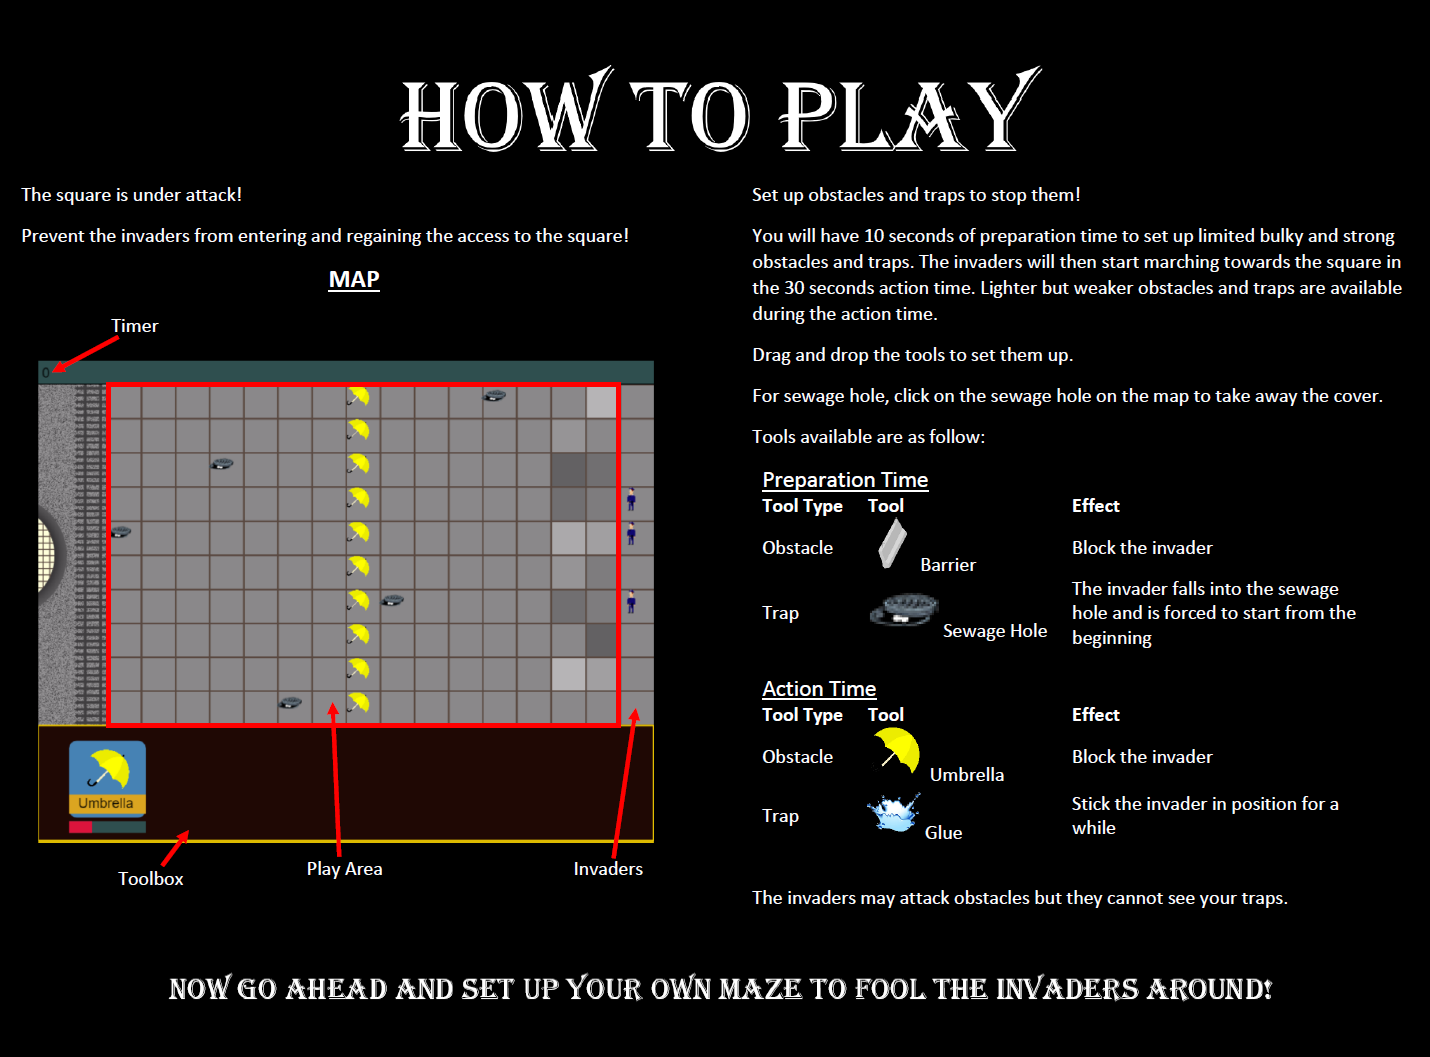
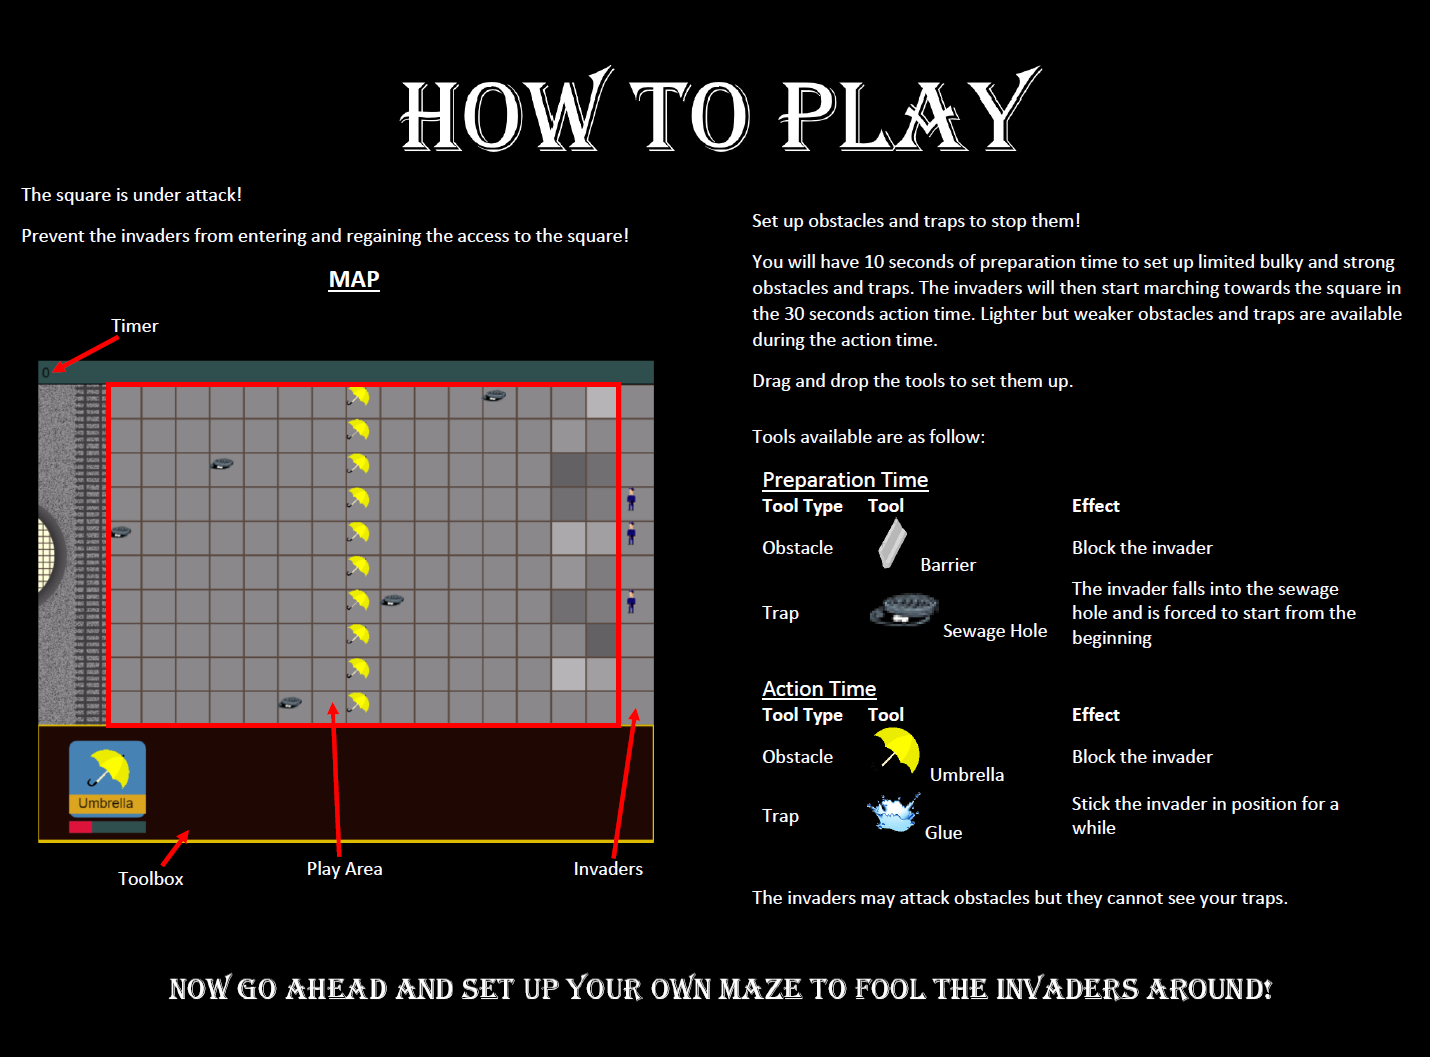
Added Probability + Change back to normal Play Time

Changed region(s): [[0.5231, 0.1561, 0.9846, 0.4059]]

diff --git a/js/invader.js b/js/invader.js
@@ -114,6 +114,9 @@ function middleAttackOrWalk(invader) {
     //front has an obstacle
     //both grids occupied, use weapon
     var obstacleCount = 0;
+    var bomb_probability = 4;       //Bomb probability constrain: 1-4/10 [40%]
+    var rod_probability = 8;        //Rod  probability constrain: 1-8/10 [80%]
+
     if ((grids[invader.gridIndex-9].detectable && grids[invader.gridIndex-11].detectable) ||
 		(grids[invader.gridIndex-1].detectable && grids[invader.gridIndex+1].detectable)){
 		console.log("blocked");
@@ -125,16 +128,16 @@ function middleAttackOrWalk(invader) {
 			}
         console.log(obstacleCount);
 
-        var random=Math.floor(10*Math.random()); //Random number for below probability calculation.
-        var random2=Math.floor(10*Math.random());
+        var random1=Math.floor(1+Math.random()*10);    //Random number 1-10 for bomb probability.
+        var random2=Math.floor(1+Math.random()*10);    //Random number 1-10 for rod probability.
 
         //use bomb when there are more than 9 obstacle
-         if ((obstacleCount >= 5 && invader.numberOfBomb > 0)) { //Match specific requirement + 60% (0-5/10) probability.
+         if ((obstacleCount >= 5 && invader.numberOfBomb > 0) && (random1<=bomb_probability)) {
             invader.useBomb();
             console.log("bomb");
          }
          //obstacleCount is 1 to 8
-         else if(random2<8){invader.useRod();}  //80% probability of using rod.
+         else if(random2<rod_probability){  invader.useRod();  }
 
     }
 

diff --git a/Main Game [Open to play].html b/Main Game [Open to play].html
@@ -1,0 +1,43 @@
+<!DOCTYPE HTML>
+<html>
+
+<head>
+<meta charset="UTF-8" />
+<title>Game</title>
+    <link rel="stylesheet" type="text/css" href="css/main.css">
+    <link rel="stylesheet" type="text/css" href="css/game.css">
+</head>
+
+
+<body>
+<canvas id="map"></canvas>
+<audio id="soundBackground" src="./mp3/pretime_background.mp3" style="display: none;" autoplay="true" onload="setHalfVolume(0.5)"></audio>
+<audio id="soundEffect" src="" style="display: none;"></audio>
+
+
+<script src="js/canvas.js"></script>
+<script src="js/sound.js"></script>
+<script src="js/mouse.js"></script>
+<script src="js/timer.js"></script>
+<script src="js/toolbar.js"></script>
+<script src="js/sprite.js"></script>
+<script src="js/gameStartEndAnimation.js"></script>
+<script src="js/utility.js"></script>
+<script src="js/invader.js"></script>
+<!-- for constructors & tools -->
+<script src="js/gameFrame.js"></script> <!--contains  init() -->
+
+
+<!--Testing Code
+
+<script>
+    for (var i=90; i<100; i++){
+        player_tools.push(new Umbrella(i));
+    }
+</script>
+
+-->
+
+</body>
+
+</html>

diff --git a/js/timer.js b/js/timer.js
@@ -2,7 +2,7 @@ var timer = new Timer();
 
 var timerMode = "setup";
 function Timer() {
-    this.basicTime = 10;
+    this.basicTime = 10;  //Prep time period.
 
     this.remainingTime = this.basicTime;
     this.started = false;
@@ -29,12 +29,12 @@ function Timer() {
 function changeMode() {
     if (timerMode == "setup") {
         timerMode = "attack";
-        timer.basicTime = 20;
+        timer.basicTime = 30;                     //Attack time period.
         timer.remainingTime = timer.basicTime;
         soundPlay("attack_bg");
     } else {
         timerMode = "setup";
-        timer.basicTime = 5;
+        timer.basicTime = 10;
         timer.remainingTime = timer.basicTime;
         soundPlay("pre_bg");
     }

diff --git a/README.md b/README.md
@@ -1,2 +1,12 @@
 # cs4386
-City University of Hong Kong 2017-2018 Semester A CS4386 AI Game Programming
+City University of Hong Kong 
+2017-2018 Semester A 
+CS4386 AI Game Programming
+
+
+Game developed by:
+
+NG Wing Hing    54402264
+LI Hiu Ching        54398399
+LAU Lee               54394550
+SIU Chak Lam     54394296
